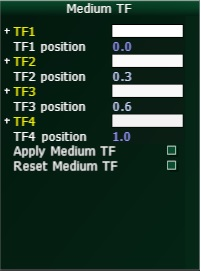
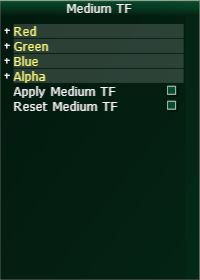
Update documentation

diff --git a/html/index.html b/html/index.html
@@ -57,13 +57,29 @@
         <li>Initialize 7 framebuffers with 2 layers for light color and direction, viewing ray position and
             direction, accumulated color and medium buffer and the output buffer by means of a compute shader. 
             These buffers will be used to read the previous and write the information for the current layer in a ping-pong manner.</li>
-        <li>Perfrom light ray propagation by backward-integration together with light intensity correction and view ray propagation 
+        <li>Perform light ray propagation by backward-integration together with light intensity correction and view ray propagation 
             by forward-integration in every rendering step.</li>
     </ol>
     <p>
         Step 4 is the main part of the program. It splits into light and viewing ray propagation.
         PUT HERE WHAT FRAGMENT SHADER DOES
     </p>
+</div>
+
+<p><b>Features</b></p>
+<div class="a">
+    <ul>
+        <li>Choose one of 5 different models (see Data).</li>
+        <li>Interaction with various rendering parameters like light and camera parameters.</li>
+        <li>Modify transfer function for opacity, particle color and transmissive medium.</li>
+        <li>Modify transfer function for refraction indices.</li>
+        <li>Enable/Disable light intensity correction to recover caustic effects.</li>
+        <li>Enable/Disable enviroment mapping to capture contributions visible on the background.</li>
+        <li>Enable/Disable viewing ray refraction to deflect the ray in view direction.</li>
+        <li>Enable/Disable specular light component with Blinn-Phong model.</li>
+        <li>Camera rotation around the object.</li>
+        <li>Light movement to the right, left, up and down - always behind and relativ to the camera.</li>
+    </ul>
 </div>
 
 <hr class="new1">
@@ -74,36 +90,76 @@ The program was implemented in a C++ framework, uses OpenGL 4.4 and therefore ne
 
 <h3>Camera interaction</h3>
 
-By pressing "Tab", the interaction mode can be switched between mouse movement and UI interaction. 
-The mouse movement mode is active, if no mouse cursor is visible. PUT HERE HOW CAMERA WORKS
+<div class="a">
+    The camera can be rotated around the object with the keys WASD. The mouse wheel can be used to zoom in and out. 
+    In addition to the manual camera movement, an automatic counter-clockwise rotation around the object can be activated by turning on <i>Rotate</i>. 
+    The parameter <i>Camera Speed</i> can be adjusted to control the speed of the rotation.
+</div>
+
+<h3>Light interaction</h3>
+
+<div class="a">
+    The light position is fixed behind the camera. To enable a better interaction, the light can be slightly moved left, right, up and down with the arrow keys. <br>
+    In order to track the position in view space, the vector between light position and scene center is tracked at <i>Light Pos</i> with
+    the light position being positioned at the vector shaft. To simplify the representation, only x- and y-coordinates are visualized.
+</div>
 
 <h3>User interface</h3>
 
-The user interface was implemented using AntTweakBar library and has several different windows. <br>
-
-<p><b>Mesh</b></p>
 <div class="a">
-    <p>The general section provides a drop down menu to chose the loaded model (see Section Dataset) and the number of slices used for rendering.
-        The default model is the skull of a two-toed sloth. 
-        Additional models can be loaded with the button "Load additional meshes" but this can take a few minutes.</p>
-    <p>The constants important for the specular component of the light can be adapted in the subsection "Light".
-        There is also the possibility to enable/disable the light intensity correction which is needed in order to visualize caustic effects.
+    The user interface was implemented using AntTweakBar library and has several different windows. <br>
+    All windows can be minimized by clicking to the small arrow in the upper right corner which appears when moving the mouse over the window.
+    The windows will get minimized to a small arrow icon in the bottomleft corner next to <i>Refraction TF</i>.
+</div>
+
+<p><b>Settings</b></p>
+<div class="a">
+    <p>
+        <i></i>Settings</i> is divided into three parts: 
+        <ul>
+            <li>Mesh: A drop-down menu allows the user to change the object after loading additional meshes.
+                The number of rendered slices can be changed in order to increase the frames per second or to increase the quality. 
+            </li>
+            <li>Light: This sections allows control over different light settings: enable/disable 
+                light intensity correction, enviroment mapping, view refraction and specular light components
+                as well as adjusting the light color and specular exponent and inspecting the light position.                
+                <i>Reset Light</i> restores the initial settings and position.
+            </li>    
+            <li>
+                Camera: An automatic counter-clockwise rotation can be enabled and the speed of the camera rotation can be adjusted.
+                <i>Reset Camera</i> restores the initial settings and camera position.
+            </li>
+        </ul>
     </p>
+</div>
+
+<p><b>Refraction TF</b></p>
+<div class="a">
+    <i>Refraction TF</i> controls the transfer function for the refraction index values. 
+    The number of control points is fixed to 3. The 4 values correspond to the refraction index before the frist control point,
+    between first and second, second and third and after third control point, respectively.
+    It is recommended to leave the value of the first control point at 1 and keeping the values below 2.5.
 </div>
 
 <p><b>Volume TF & Medium TF</b></p>
 <div class="a">
-    <p>The transfer function for volume and medium color are defined by four control points.
-        The corresponding RGB and alpha values can be changed. For the medium color, the alpha value won't have any impact for the rendering calculation.
-        The change will be applied once the button "Apply" is pressed.
-        The "Reset" button will reset the values of the transfer function to the inital settings.
+    <p>The transfer function for the particle color transfer function (called <i>Volume TF</i>) and the transmissive medium (called <i>Medium TF</i>) 
+        can be controlled by 3-5 control points with corresponding RGBA values. The transfer functions for RGBA can be adapted separatly for each channel.
+        The values for RGB and opacity can be adapted by changing the numerical values.
+        For the medium color, the alpha value won't have any impact for the rendering.
+        The button <i>Add point</i> adds a control point at the end with position 1 and color value 255.
+        In order to avoid an error in the transfer function calculation, the previous last control point is moved to position 0.99 to avoid twice the position 1.
+        The button <i>Remove point</i> will remove the last control point and the corresponding color.
+        The changes will be applied once the button <i>Apply TF</i> is pressed.
+        The <i>Reset TF</i> button will reset the values of the transfer function to the inital settings.
     </p>
 </div>
 
 <div class="b">
-    <img src="mesh.jpg" alt="Mesh" style="width:15%">
+    <img src="settings.jpg" alt="Mesh" style="width:15%">
     <img src="volumetf.jpg" alt="VolumeTF" style="width:15%">
-    <img src="mediumtf.jpg" alt="MediumTF" style="width:15%">
+    <img src="mediumtf.jpg" alt="MediumTF" style="width:15%">    
+    <img src="refractiontf.jpg" alt="MediumTF" style="width:15%">
 </div>
 
 <div class="a">
@@ -126,13 +182,14 @@ The following datasets have been chosen for the program and can be loaded:
     <li><a href="http://digimorph.org/specimens/Alligator_mississippiensis/adult/">Alligator mississippiensis</a> - American Alligator</li>
     <li><a href="http://digimorph.org/specimens/Aspidites_melanocephalus/">Aspidites melanocephalus</a> - Black-headed Python</li>
     <li><a href="http://www.digimorph.org/specimens/Choloepus_hoffmanni/">Choloepus hoffmanni</a> - Two-toed Sloth (default model)</li>
+    <li><a hred="http://www.digimorph.org/specimens/Crocodylus_rhombifer/">Crocodylus rhombifer</a> - Cuban Crocodile</li>
     <li><a href="http://www.digimorph.org/specimens/Elseya_dentata/">Elseya dentata</a> - Northern Snapping Turtle</li>
     <li><a href="http://digimorph.org/specimens/Lama_glama/">Lama glama</a> - Llama </li>
 </ul>
 <div class="b">
-    <img src="alligator.jpg" alt="Alligator" style="width:19%">
     <img src="python.jpg" alt="Python" style="width:19%">
     <img src="sloth.jpg" alt="Sloth" style="width:19%">
+    <img src="crocodile.jpg" alt="Crocodile" style="width:19%">
     <img src="turtle.jpg" alt="Turtle" style="width:19%">
     <img src="lama.jpg" alt="Lama" style="width:19%">
 </div>
@@ -144,13 +201,12 @@ The following datasets have been chosen for the program and can be loaded:
 <ul>
     <li><a href="https://github.com/CarolineMagg/Vis2">Source Code</a></li>    
     <li><a href="https://github.com/CarolineMagg/Vis2">Source Documentation</a></li>
-    <li><a href="test.zip">Program</a></li>
     <li><a href="https://ieeexplore.ieee.org/document/8017622">Original Paper</a></li>
 </ul>
 
 <hr>
 
-<p>Visualization 2 Project by Hamed Jafari-Sahamieh & Caroline Magg</p>
+<p><i>Visualization 2 Project</i> by Hamed Jafari-Sahamieh & Caroline Magg</p>
 
 </body>
 </html>

diff --git a/README.md b/README.md
@@ -1,1 +1,4 @@
 # Vis2
+
+This program is an implementation of the paper "Interactive Dynamic Volume Illumination with Refraction and Caustics" by Jens G. Magnus and Stefan Bruckner.
+The documentation for the project can be found [here](https://github.com/CarolineMagg/Vis2/blob/master/html/index.html).
